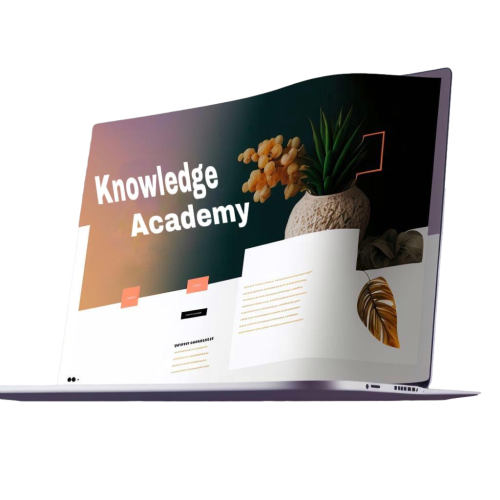
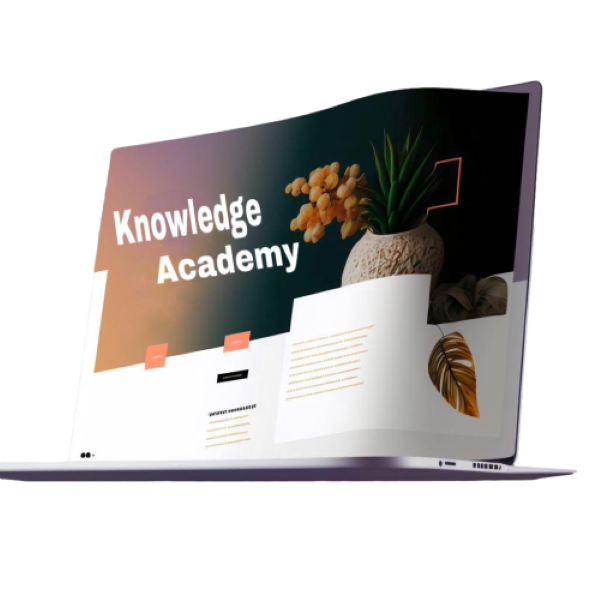
animation title

diff --git a/assets/css/style.css b/assets/css/style.css
@@ -39,7 +39,7 @@ body .loading{
     width: 0;
     height: 100%;
     color: #E9ECEF  ;
-    -webkit-text-stroke: .1vw #E9ECEF;
+    -webkit-text-stroke: .2vw #E9ECEF;
     border-right: 2px solid rgb(78, 78, 164);
     overflow: hidden;
     animation: animate 3s linear infinite;
@@ -62,7 +62,7 @@ body .loading{
 .navbar{
     padding-top: 1%;
     font-weight: 500 !important;
-    font-size:14px
+    font-size:14px;
  }
  
 .navbar .navbar-nav .nav-item a.nav-link{
@@ -104,9 +104,11 @@ body .loading{
 }
 .navbar .navbar-nav .nav-item:nth-child(8) a.nav-link:hover i{
    color: #303e82;
+   transform: scale(1.1);
 }
 .navbar .navbar-nav .nav-item:nth-child(9) a.nav-link:hover i{
     color: #584ee4;
+    transform: scale(1.1);
  }
 
 
@@ -213,15 +215,15 @@ header .tr3{
 }
 
 .header .lap1{
-    top: 200px;
+    top: 266px;
     right: 8px;
     z-index: 5;
 }
 
 .header .lap3{
-    top: 212px;
-    right: 199px;
-      z-index: 5;
+    top: 282px;
+    right: 212px;
+    z-index: 5;
 }
 
 
@@ -268,14 +270,30 @@ header .tr3{
  
 .header h1{
     color: rgb(54, 54, 54);
-    transform: translateX(-50%);
+    
     left: 18.7%;
-    transform: translateY(120%);
+    top:200px;
     font-size:80px;
     font-weight: 800;
     position: relative;
     z-index: 5;
+    animation-name: contentLeft;
+    animation-duration: 1s;
+    /* transform: translate(-50%, -50%);
+  transition: all 1s; */
 }
+@keyframes contentLeft {
+
+    0%{
+        transform: translateX(-120%);
+         
+    }
+    
+   
+    
+}
+ 
+
 
 
 .reflection {

diff --git a/index.html b/index.html
@@ -110,9 +110,12 @@
         <span class="tr1"><img src="assets/img/tr.png" /></span>
         <span class="tr2"><img src="assets/img/Ellipse.png" /></span>
         <span class="tr3"><img src="assets/img/Ellipse1.png" /></span>
+    
         <div class="row">
           <div class="col-md-6 position-relative">
-            <h1 class="position-absolute">Knowledge Academy</h1>
+
+            <div class="header-content ">
+              <h1 class="position-absolute text-uppercase" id="intro">Knowledge Academy</h1>
             <div class="reflection">KN</div>
             <a
               href="https://www.facebook.com/eknowledge.learn/videos/4445690268892254"
@@ -124,6 +127,8 @@
               ></span>
               <p class="para mb-0 ms-3">watch a video</p>
             </a>
+          </div>
+            
           </div>
           <div class="col-md-6">
             <div class="scd position-absolute rounded-pill"></div>

diff --git a/assets/js/main.js b/assets/js/main.js
@@ -34,7 +34,14 @@ window.addEventListener('scroll', function(){
   var value = window.scrollY;
   scd.style.right= 0-(700-(value*1.5))  ;
 })
+ 
 
 
+// const intro = document.querySelector('#intro');
+// console.log(intro)
 
+// function animateIntro() {
+//   intro.style.left = '18.7%;';
+// }
 
+// setTimeout(animateIntro, 1000);
